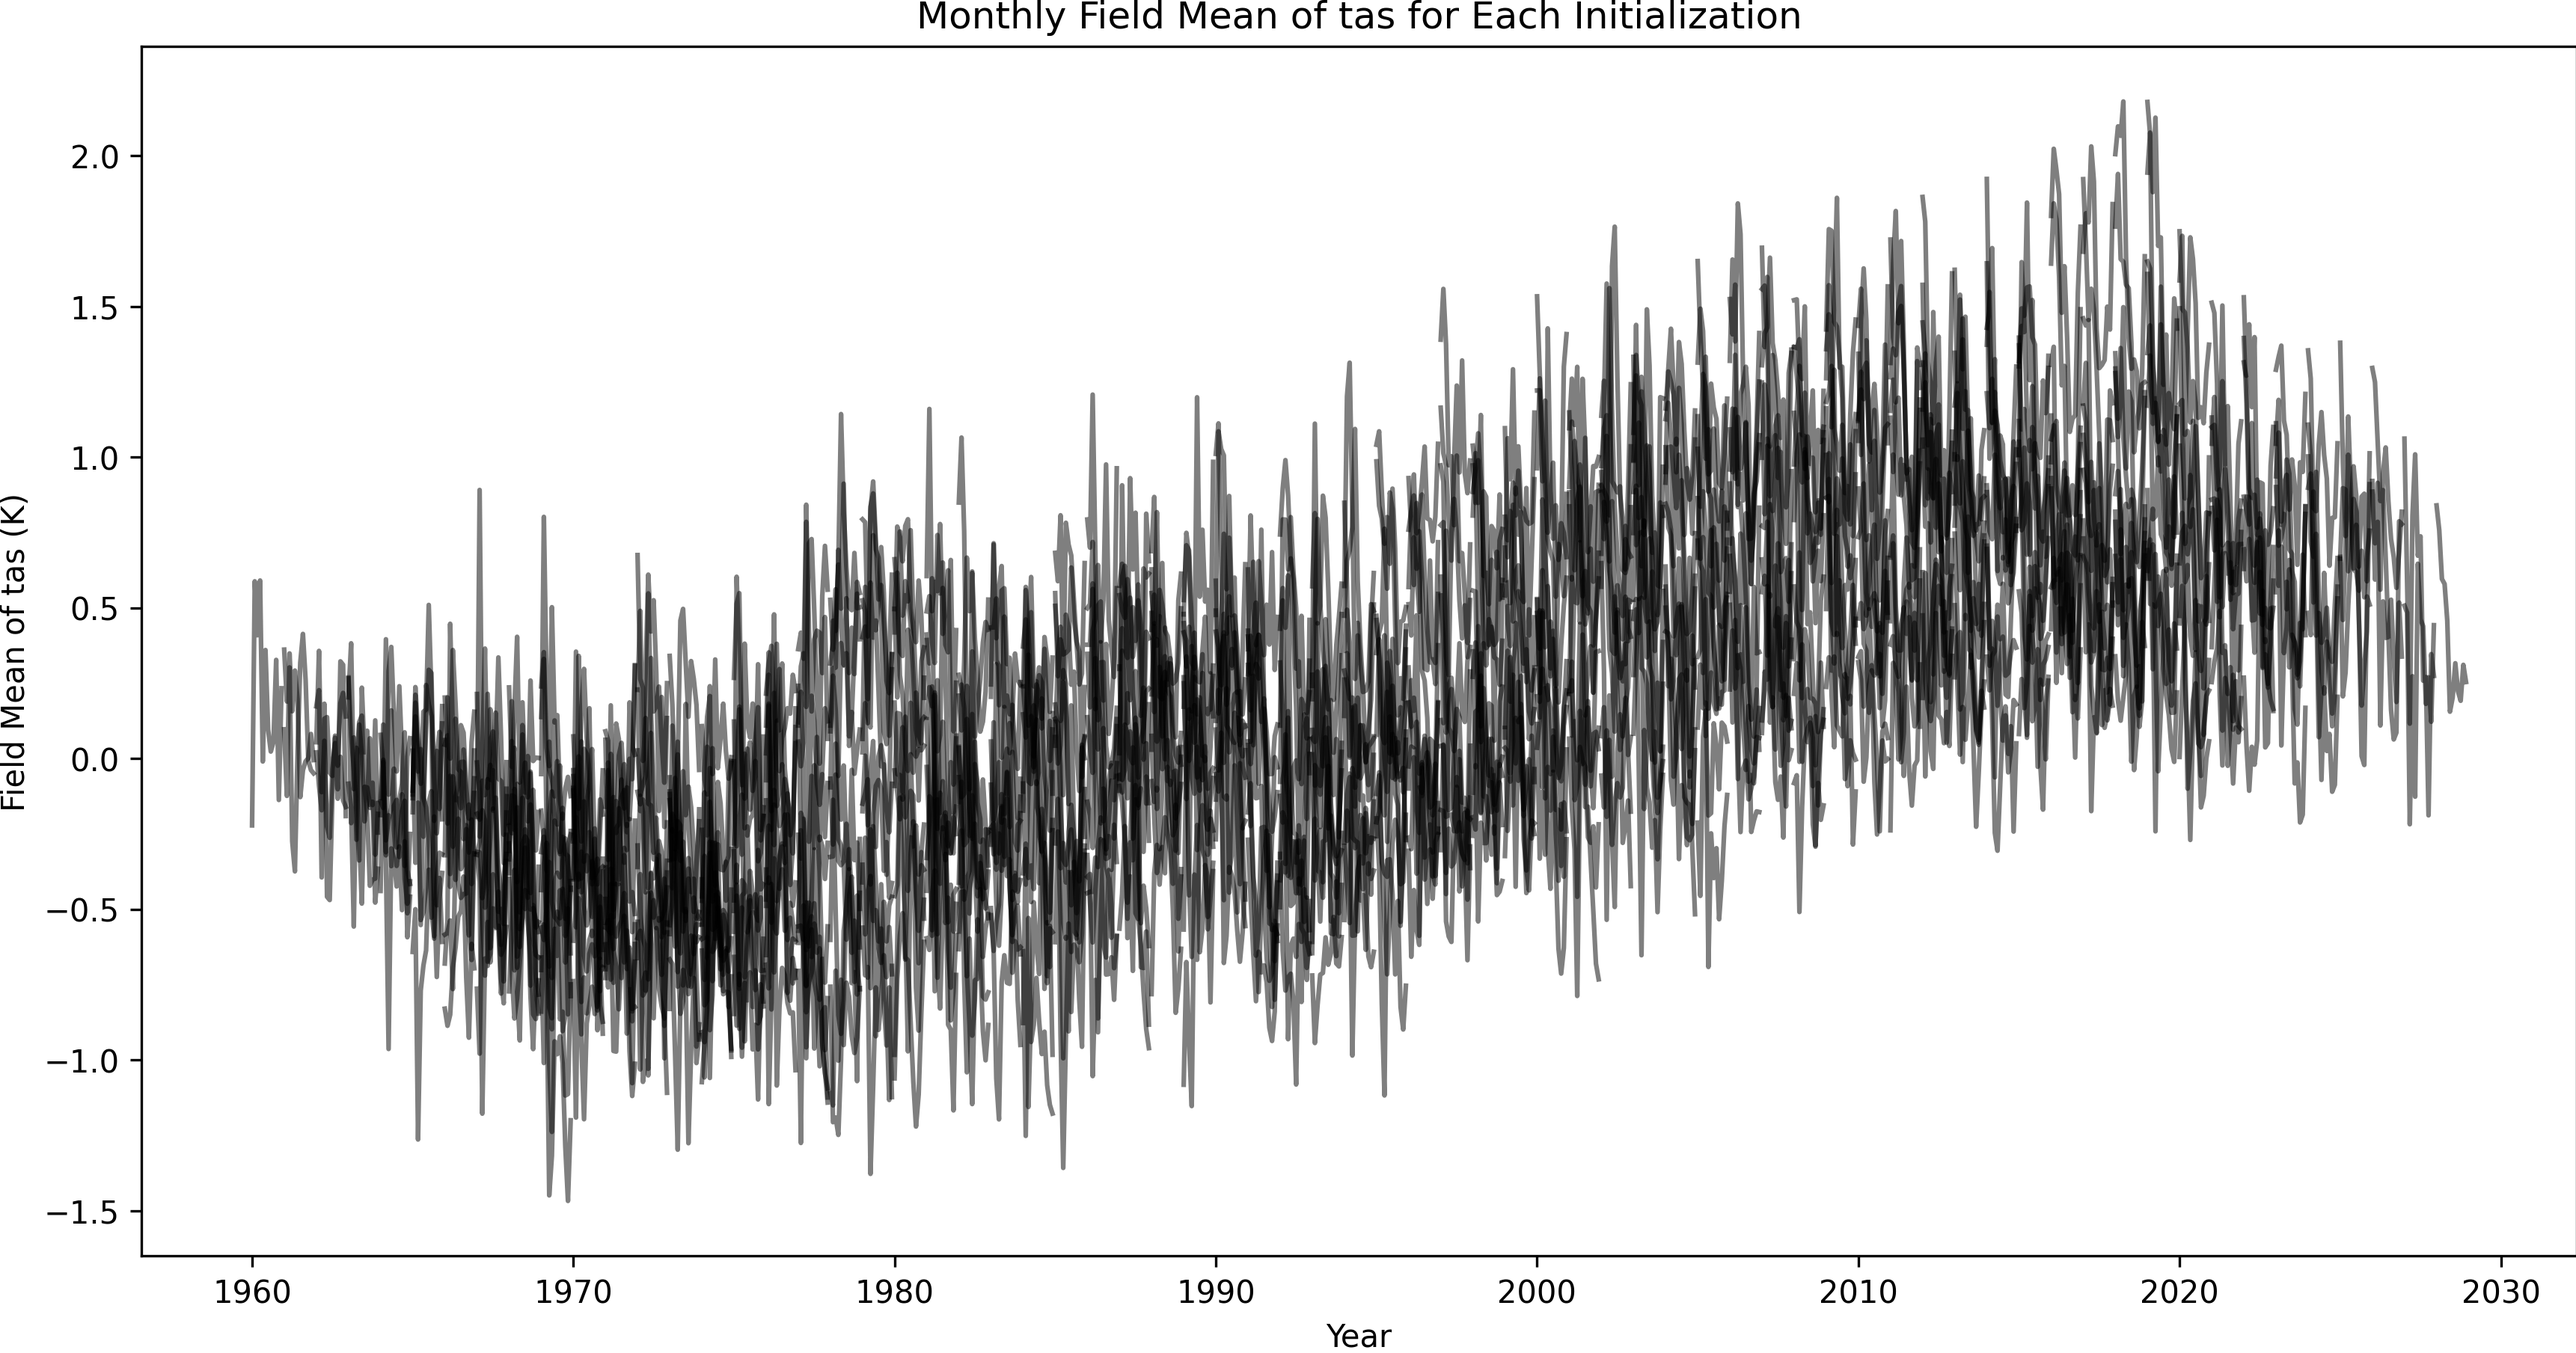
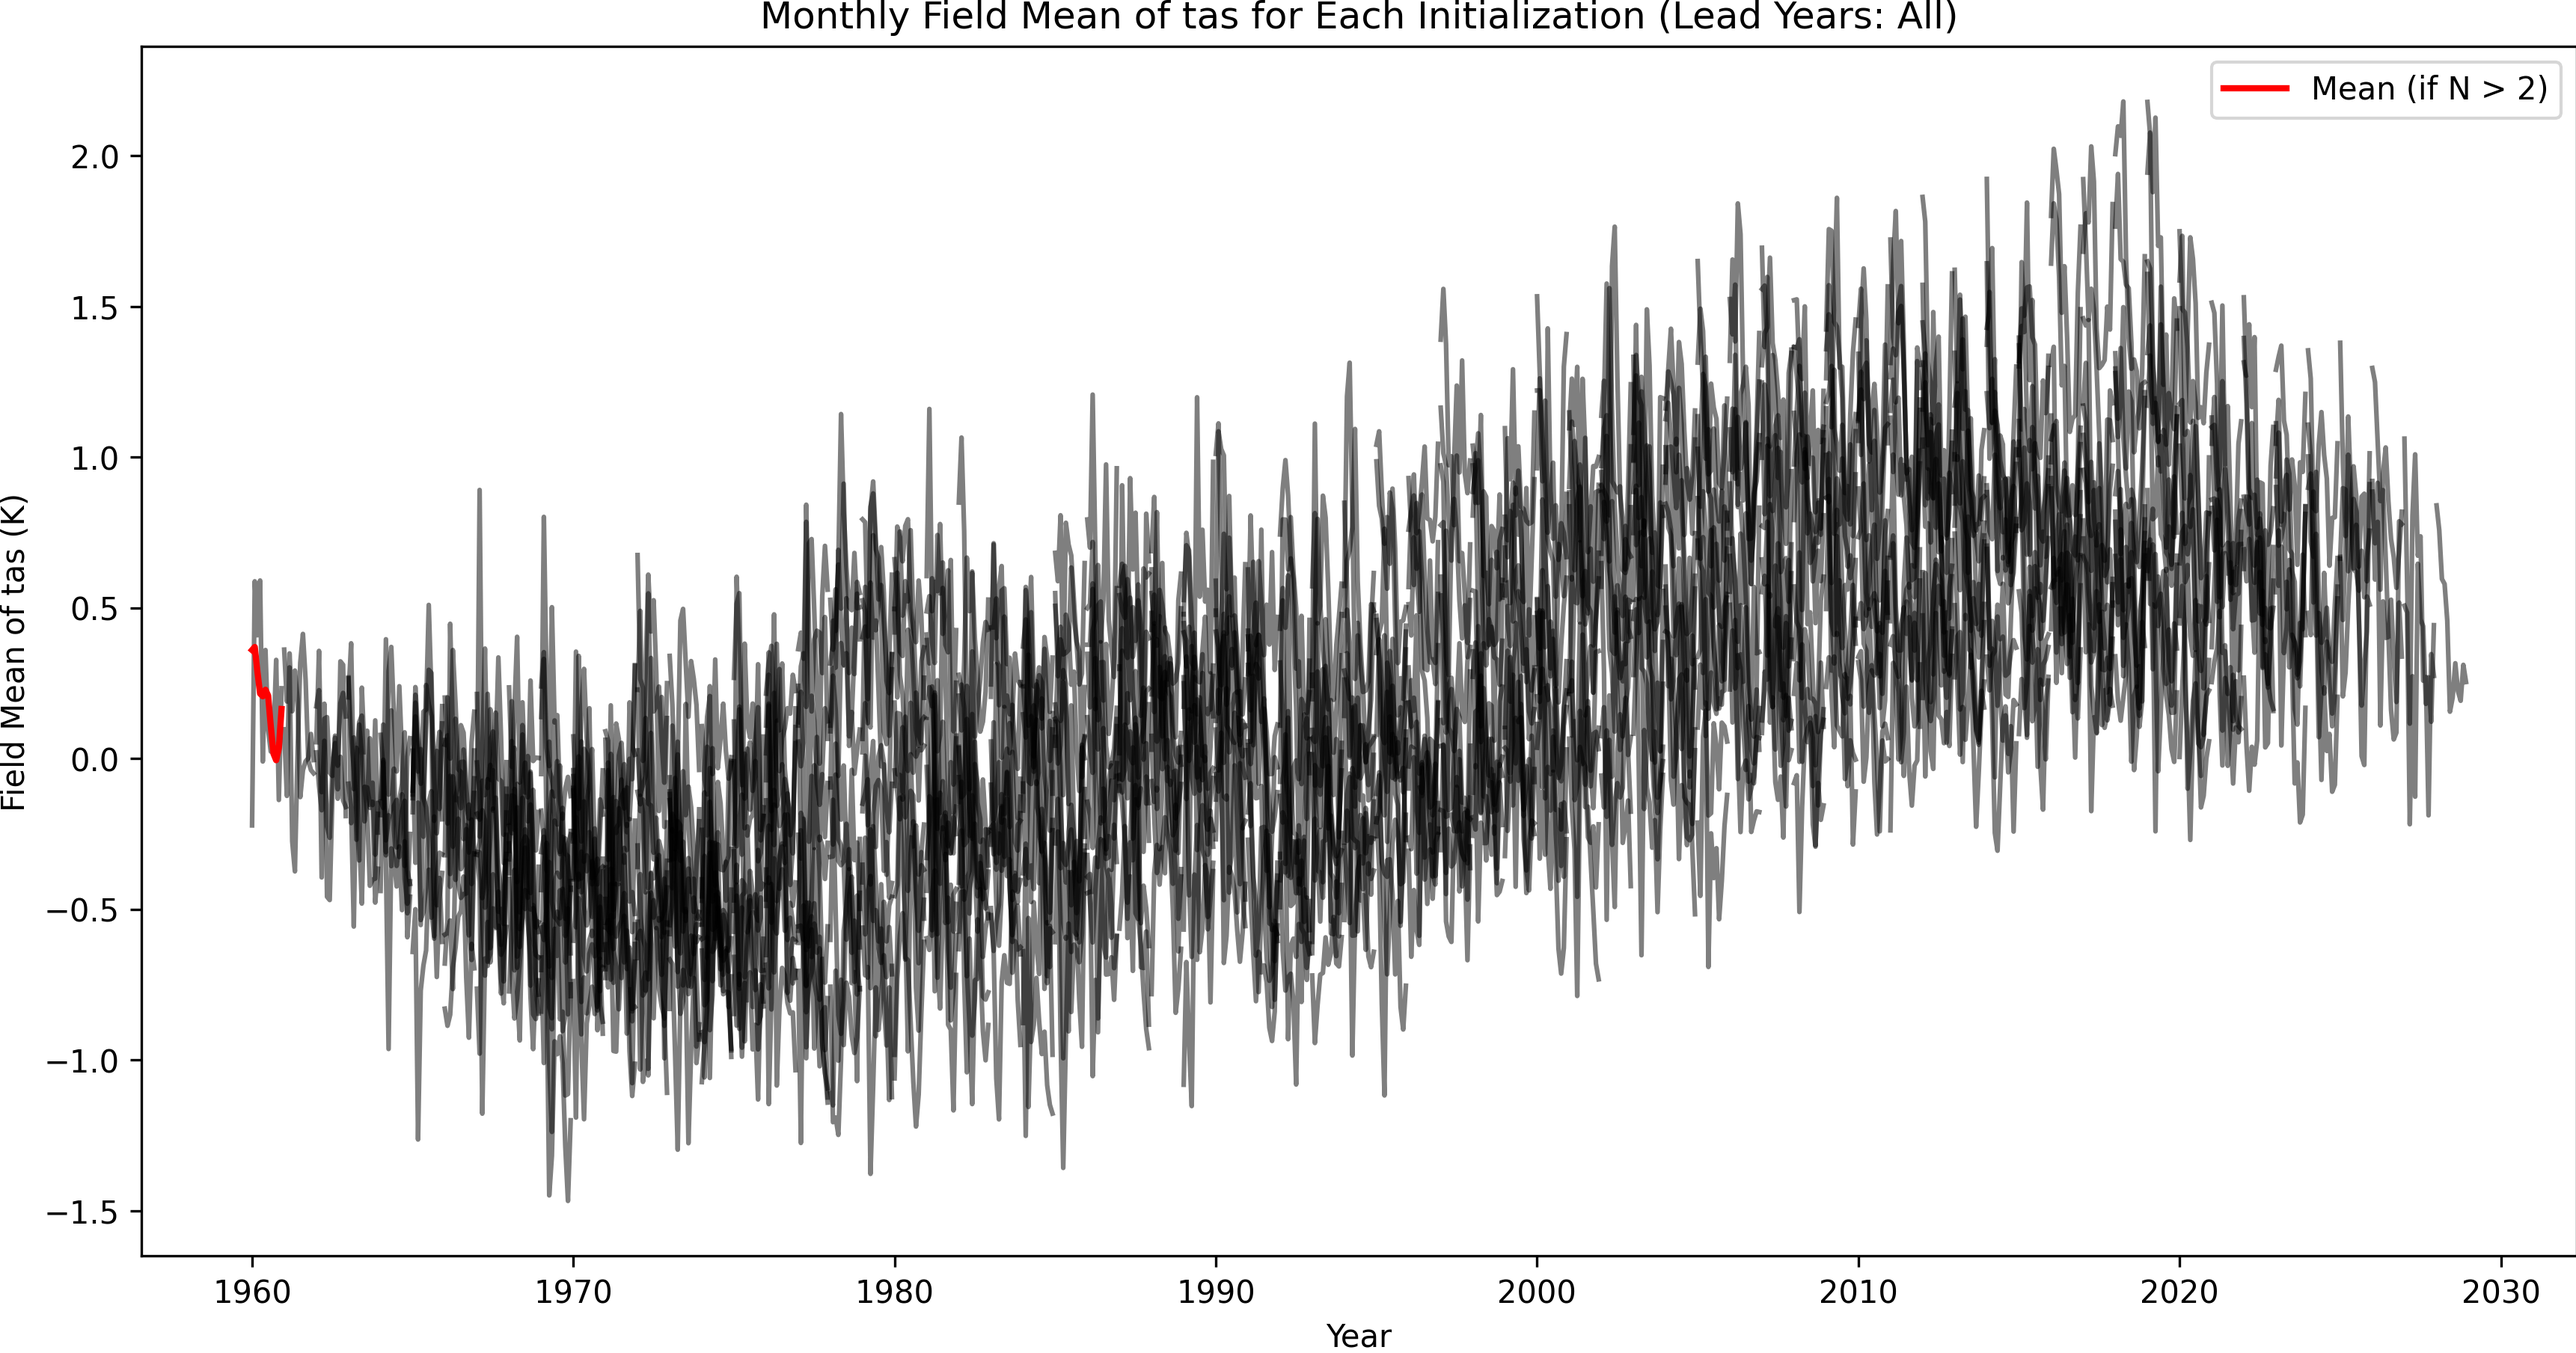
orginize the plotting and change readme

Changed region(s): [[0.2797, 0.0, 0.7769, 0.031], [0.8391, 0.031, 0.9945, 0.0929], [0.0932, 0.4953, 0.1243, 0.5572]]

diff --git a/src/plot_time_series.py b/src/plot_time_series.py
@@ -1,0 +1,80 @@
+import matplotlib.pyplot as plt
+import numpy as np
+import xarray as xr
+
+
+def plot_global_mean_tas(
+    nc_file: str,
+    num_lead_years: int,
+    output_plot: str
+ ) -> None:
+    """
+    Plots the monthly global mean surface air temperature (tas)
+    for each initialization
+    and overlays a mean line for months with more than two data points.
+
+    Parameters:
+        nc_file (str): Path to the NetCDF file.
+        num_lead_years (int): Number of lead years to plot.
+        output_plot (str): Path to save the output plot.
+
+    Returns:
+        None
+    """
+    ds = xr.open_dataset(nc_file)
+    fldmean_tas = ds["tas"].mean(dim=["lat", "lon"])
+
+    yearly_data = {}
+    monthly_values = {}
+
+    for init_year in ds["initialization"]:
+        lead_times = fldmean_tas.sel(initialization=init_year)[
+            "lead_time"
+        ].values
+        block_range = range(0, min(len(lead_times), num_lead_years * 12), 12)
+
+        for block_start in block_range:
+            year = int(init_year.values) + block_start // 12
+            block = lead_times[block_start:block_start + 12]
+            tas_block = fldmean_tas.sel(
+                initialization=init_year, lead_time=block
+            ).values
+
+            if len(tas_block) < 12:
+                continue
+
+            yearly_data.setdefault(year, []).append(tas_block)
+
+            for month_idx, temp_value in enumerate(tas_block):
+                actual_time = year + month_idx / 12
+                monthly_values.setdefault(actual_time, []).append(temp_value)
+
+    plt.figure(figsize=(14, 7))
+
+    for year, tas_blocks in yearly_data.items():
+        for tas_block in tas_blocks:
+            plt.plot(
+                [year + (month - 1) / 12 for month in range(1, 13)],
+                tas_block,
+                "k-",
+                alpha=0.5,
+            )
+
+    mean_x_vals = []
+    mean_y_vals = []
+
+    for time_point, values in sorted(monthly_values.items()):
+        if len(values) > 2:
+            mean_x_vals.append(time_point)
+            mean_y_vals.append(np.mean(values))
+
+    plt.plot(
+        mean_x_vals, mean_y_vals, "r-", linewidth=2, label="Mean (if N > 2)"
+    )
+    plt.xlabel("Year")
+    plt.ylabel("Field Mean of tas (K)")
+    plt.title(f"Monthly Field Mean of tas (First {num_lead_years} Lead Years)")
+    plt.legend()
+
+    plt.savefig(output_plot, bbox_inches="tight", pad_inches=0, dpi=300)
+    print(f"Plot saved to {output_plot}")

diff --git a/run.py b/run.py
@@ -1,6 +1,7 @@
 from src.processor import process_files
+from src.plot_time_series import plot_global_mean_tas
 if __name__ == "__main__":
-    output_file = "/work/kd1418/codes/work/k202196/MYWORK/output_file.nc"
+    output_file = "/work/kd1418/codes/work/k202196/MYWORK/tas_Amon_MPI-ESM-LR_dkfen41979-2021_r26i2p1.nc"
     process_files(
         experiment="dkfen4*",
         project="comingdecade",
@@ -8,9 +9,20 @@ if __name__ == "__main__":
         variable="tas",
         ensemble="r26i2p1",
         climatology_file="/work/bk1318/k202208/diff-pred/data/mpi-esm/tas_Amon_MPI-ESM-historical_ensmean_185001-200512_climatology.nc",
-        output_file="/work/kd1418/codes/work/k202196/MYWORK/output_file.nc", 
+        output_file=output_file, 
         output_dir="./" 
     )
+    plot_global_mean_tas(
+        "/work/kd1418/codes/work/k202196/MYWORK/tas_Amon_MPI-ESM-LR_dkfen41979-2021_r26i2p1.nc",
+        num_lead_years=2,
+        output_plot=f"first_2_lead_years_with_mean.png",
+    )
+    plot_global_mean_tas(
+        output_file,
+        num_lead_years=11,
+        output_plot=f"first_11_lead_years_with_mean.png",
+    )
+
    
     
 

diff --git a/README.md b/README.md
@@ -53,10 +53,22 @@ Run tests using:
 ```
 ## run plot testing 
 ```python
-python plot_time_series.py
-```
-![image](full_12_month_lead_time_blocks.png)
+from src.plot_time_series import plot_global_mean_tas
 
+pyplot_global_mean_tas(
+        "/work/kd1418/codes/work/k202196/MYWORK/tas_Amon_MPI-ESM-LR_dkfen41979-2021_r26i2p1.nc",
+        num_lead_years=2,
+        output_plot=f"first_2_lead_years_with_mean.png",
+    )
+
+```
+- First 2 lead years: 
+
+![image](first_2_lead_years_with_mean.png)
+
+- Full lead years: 
+
+![image](first_11_lead_years_with_mean.png)
 ## License 
 
 MIT License 
